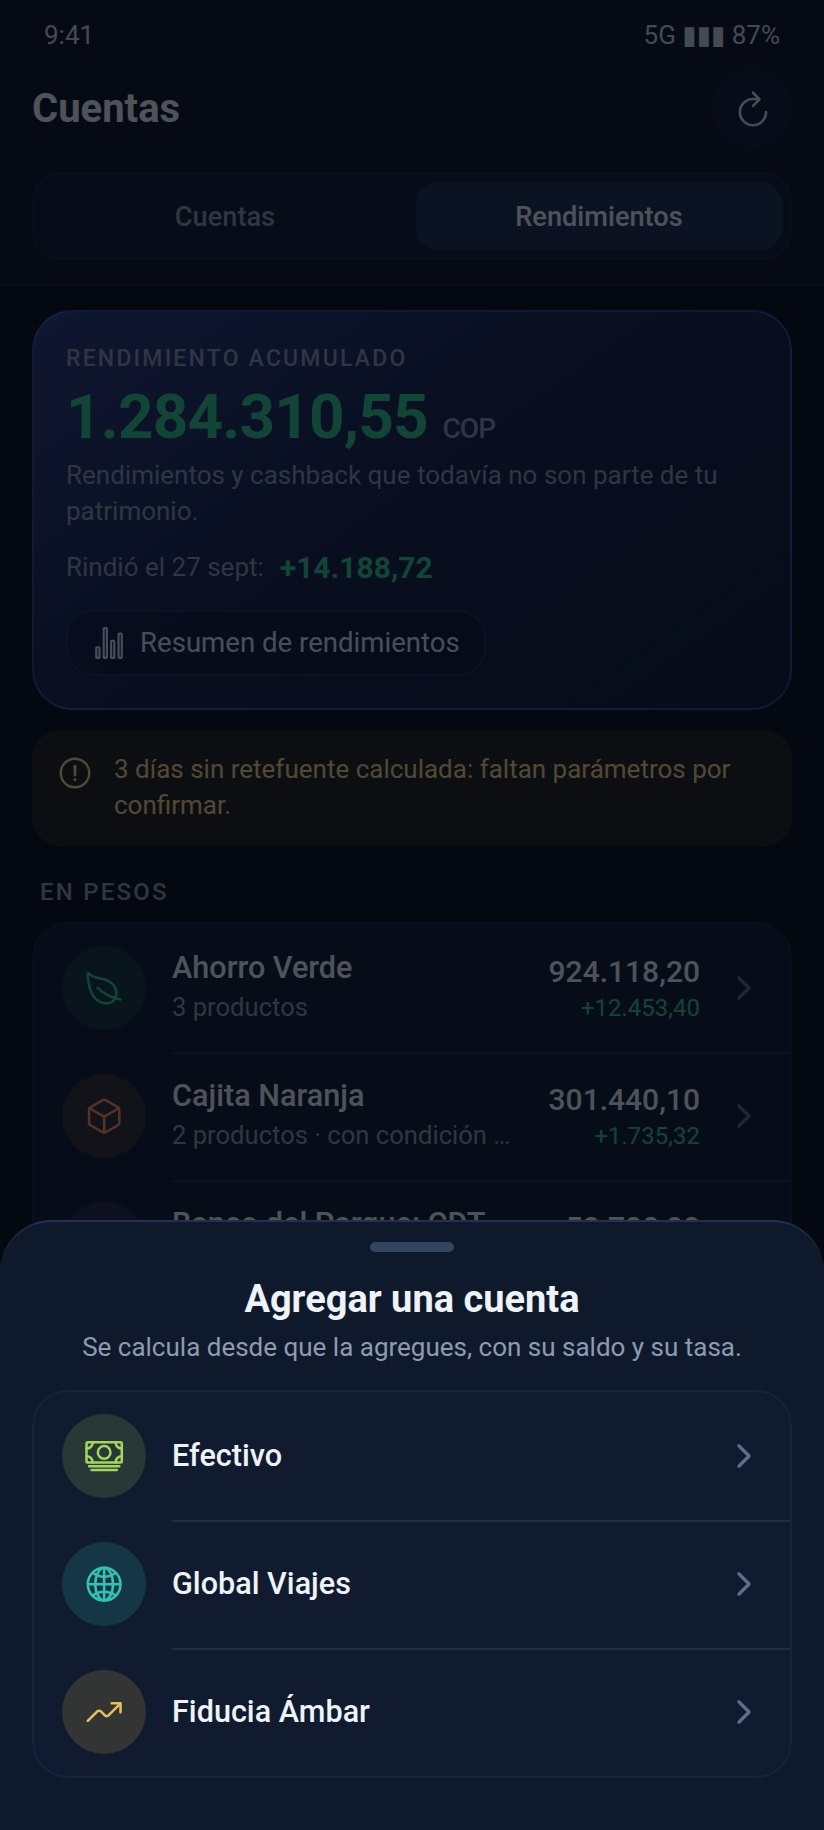
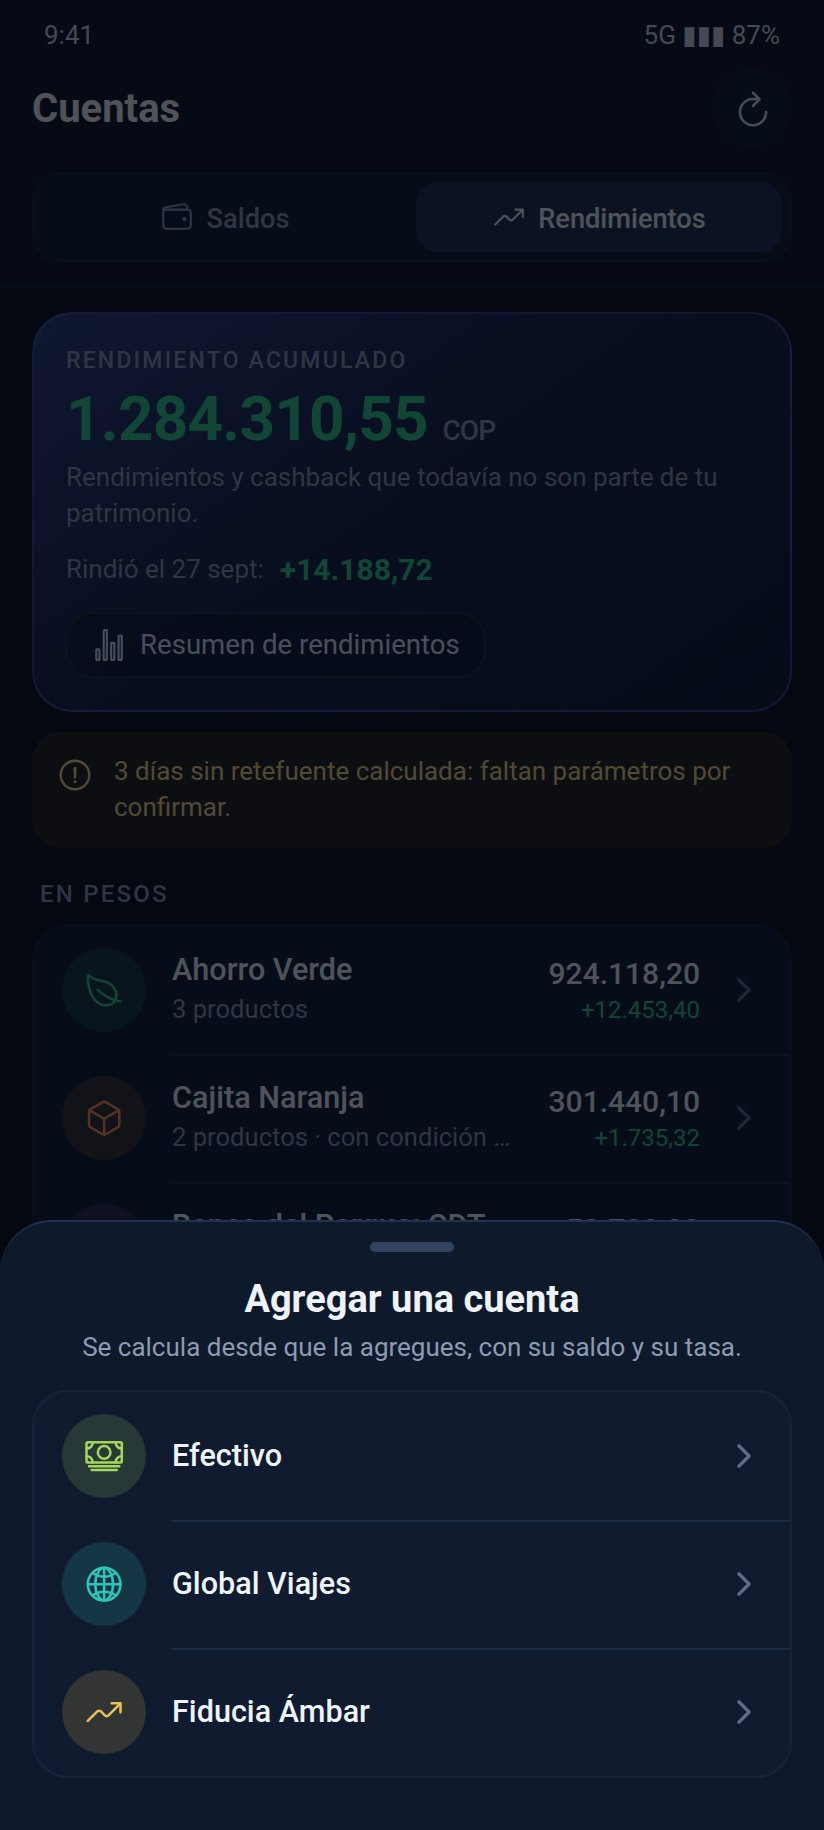
Name the Cuentas tab's faces Saldos and Rendimientos, draw the way through
The tab and one of its faces were both called Cuentas. The faces are now
Saldos and Rendimientos, each with its icon, and 2s shows the four steps:
balances, an account in Inicio, yields, an account's products.

Claude-Session: https://claude.ai/code/session_01QyUqFix1SMdsKVBtd1Wz88

diff --git a/CLAUDE.md b/CLAUDE.md
@@ -2351,6 +2351,15 @@ down opened); the same shape goes to Por revisar and every later group.
   in the middle opening the period sheet, and the search on its own full
   row under it (`4d`, `4d2`). The report's is the same shape.
 
+**The Cuentas tab's two faces are "Saldos | Rendimientos"** (Jose,
+2026-09-28: the tab and one of its faces were both called "Cuentas" and
+it was not clear what each showed). Saldos is every account with today's
+balance and net worth - what the tab opens on - and a row opens that
+account in Inicio; Rendimientos is only the accounts that earn, with what
+they have been paid, and a row opens the account's page (Productos,
+Movimientos, Pagos, Días). Each face carries its icon (wallet, rising
+line). `2s-recorrido-cuentas.jpg` draws the four steps.
+
 ### The ideas, by what they would take
 
 | # | Idea | Size | Touches | Status |

diff --git a/docs/mockups/README.md b/docs/mockups/README.md
@@ -13,6 +13,8 @@ agreed"). Files starting with a digit are the current version of their
 group (v4 and later). The "+" sits in the middle of the floating bar from v5, in every file that draws the bar; `b*`, `c*`, `d*` are v3 drafts, kept until their group
 is redone, and superseded by Jose's review of 2026-09-28.
 
+`2s-recorrido-cuentas.jpg` shows the Cuentas tab step by step: Saldos, an account in Inicio, Rendimientos, an account's products.
+
 Every list of movements is in folding sections (by day or category), only the first open, with the round open-all / close-all button (`1o`, `1p`, `4d2`). Every screen with a long list carries the two arrows (up, down) on the right above the bar, as the app shows them today.
 
 ## The files
